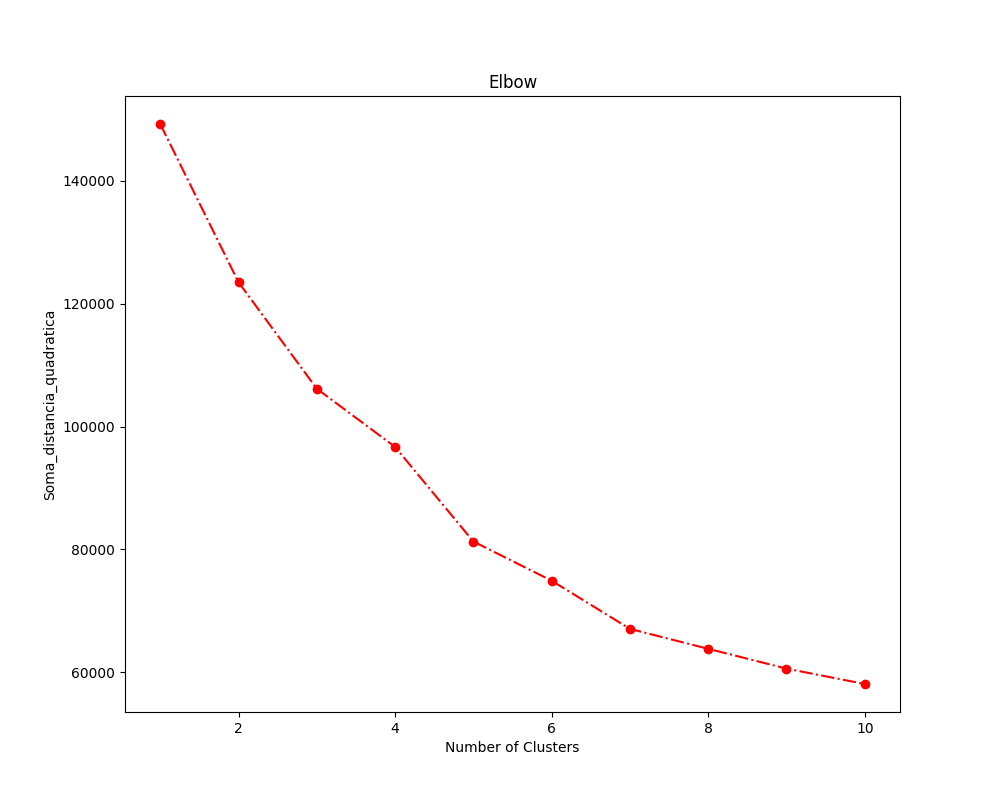
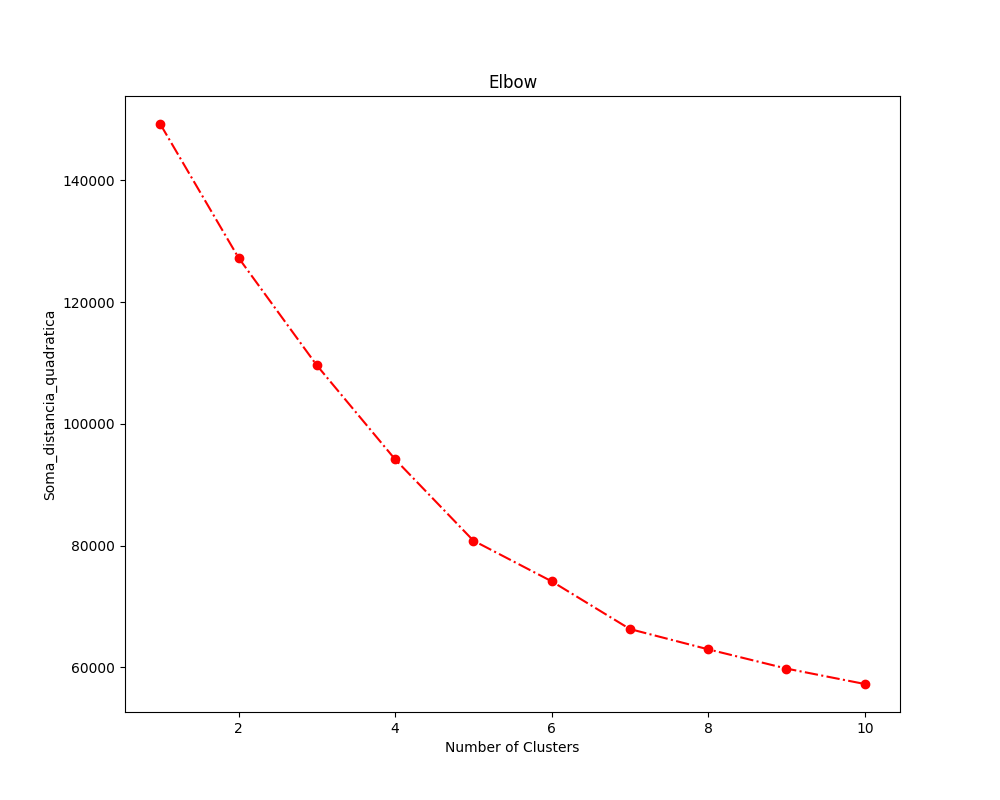
completo

diff --git a/templates/dashboard_um.html b/templates/dashboard_um.html
@@ -114,10 +114,31 @@
 
     <h1>K-means Clustering Results</h1>
     <img src="{{ url_for('static', filename='graficos/df_kmeans_pca_plot.png') }}" alt="K-means Clustering with PCA">
-
     <h1>Cluster Analysis Report</h1>
-    <div>
-        {{ cluster_analysis_report|safe }}
-    </div>
+
+    <table border="1">
+        <thead>
+            <tr>
+                <th>Class Name</th>
+                <th>Instance Count</th>
+                <th>Rule List</th>
+            </tr>
+        </thead>
+        <tbody>
+            {% for index, row in cluster_analysis_report.iterrows() %}
+            <tr>
+                <td>{{ row['class_name'] }}</td>
+                <td>{{ row['instance_count'] }}</td>
+                <td>{{ row['rule_list'] }}</td>
+            </tr>
+            {% endfor %}
+        </tbody>
+    </table>
+
+    <h1>K-means Scatterplot</h1>
+    <img src="{{ url_for('static', filename='graficos/df_kmeans_elbow.png') }}" alt="K-means Scatterplot with PCA">
+
+    <h1>K-means Elbow</h1>
+    <img src="{{ url_for('static', filename='graficos/df_kmeans_scatterplot.png') }}" alt="K-means Elbow with PCA">
 </body>
 </html>

diff --git a/templates/dashboard_tres.html b/templates/dashboard_tres.html
@@ -112,8 +112,30 @@
     <img src="{{ url_for('static', filename='graficos/df2_kmeans_pca_plot.png') }}" alt="K-means Clustering with PCA">
 
     <h1>Cluster Analysis Report</h1>
-    <div>
-        {{ cluster_analysis_report|safe }}
-    </div>
+
+    <table border="1">
+        <thead>
+            <tr>
+                <th>Class Name</th>
+                <th>Instance Count</th>
+                <th>Rule List</th>
+            </tr>
+        </thead>
+        <tbody>
+            {% for index, row in cluster_analysis_report2.iterrows() %}
+            <tr>
+                <td>{{ row['class_name'] }}</td>
+                <td>{{ row['instance_count'] }}</td>
+                <td>{{ row['rule_list'] }}</td>
+            </tr>
+            {% endfor %}
+        </tbody>
+    </table>
+
+    <h1>K-means Scatterplot</h1>
+    <img src="{{ url_for('static', filename='graficos/df2_kmeans_elbow.png') }}" alt="K-means Scatterplot with PCA">
+
+    <h1>K-means Elbow</h1>
+    <img src="{{ url_for('static', filename='graficos/df2_kmeans_scatterplot.png') }}" alt="K-means Elbow with PCA">
 </body>
 </html>

diff --git a/templates/dashboard_dois.html b/templates/dashboard_dois.html
@@ -109,8 +109,30 @@
     <img src="{{ url_for('static', filename='graficos/df1_kmeans_pca_plot.png') }}" alt="K-means Clustering with PCA">
 
     <h1>Cluster Analysis Report</h1>
-    <div>
-        {{ cluster_analysis_report|safe }}
-    </div>
+
+    <table border="1">
+        <thead>
+            <tr>
+                <th>Class Name</th>
+                <th>Instance Count</th>
+                <th>Rule List</th>
+            </tr>
+        </thead>
+        <tbody>
+            {% for index, row in cluster_analysis_report1.iterrows() %}
+            <tr>
+                <td>{{ row['class_name'] }}</td>
+                <td>{{ row['instance_count'] }}</td>
+                <td>{{ row['rule_list'] }}</td>
+            </tr>
+            {% endfor %}
+        </tbody>
+    </table>
+
+    <h1>K-means Scatterplot</h1>
+    <img src="{{ url_for('static', filename='graficos/df_kmeans_elbow.png') }}" alt="K-means Scatterplot with PCA">
+
+    <h1>K-means Elbow</h1>
+    <img src="{{ url_for('static', filename='graficos/df_kmeans_scatterplot.png') }}" alt="K-means Elbow with PCA">
 </body>
 </html>

diff --git a/analise.py b/analise.py
@@ -29,6 +29,9 @@ import numpy as np
 from sklearn.metrics import silhouette_samples, silhouette_score
 from sklearn.tree import _tree, DecisionTreeClassifier
 from IPython.display import HTML, display
+from sklearn.tree import export_text
+from flask import send_file
+from sklearn.pipeline import Pipeline
 mpl.rcParams['figure.max_open_warning'] = 50
 
 analise = Flask(__name__)
@@ -641,59 +644,45 @@ def perform_and_plot_kmeans(dataframe, nome_prefixo, n_clusters):
     plt.savefig(f'{graficos_dir}/{nome_prefixo}_kmeans_pca_plot_{n_clusters}.png')
     plt.close()
 
-def execute_cluster_analysis(data, clusters, min_samples_leaf=50, pruning_level=0.01):
-    """
-    This function performs clustering analysis and displays rules for each cluster
-    using a decision tree classifier.
+def pretty_print(df):
+    return display( HTML( df.to_html().replace("\\n","<br>") ) )
 
-    Parameters:
-    - data: pandas DataFrame containing the dataset.
-    - clusters: Array-like of cluster labels corresponding to each row in data.
-    - min_samples_leaf: The minimum number of samples required to be at a leaf node.
-    - pruning_level: Complexity parameter used for Minimal Cost-Complexity Pruning.
-    """
+def get_class_rules(tree: DecisionTreeClassifier, feature_names: list):
+  inner_tree: _tree.Tree = tree.tree_
+  classes = tree.classes_
+  class_rules_dict = dict()
 
-    def pretty_print(df):
-        """
-        Display a DataFrame in HTML format.
-        """
-        return display(HTML(df.to_html().replace("\\n", "<br>")))
+  def tree_dfs(node_id=0, current_rule=[]):
+    # feature[i] holds the feature to split on, for the internal node i.
+    split_feature = inner_tree.feature[node_id]
+    if split_feature != _tree.TREE_UNDEFINED: # internal node
+      name = feature_names[split_feature]
+      threshold = inner_tree.threshold[node_id]
+      # left child
+      left_rule = current_rule + ["({} <= {})".format(name, threshold)]
+      tree_dfs(inner_tree.children_left[node_id], left_rule)
+      # right child
+      right_rule = current_rule + ["({} > {})".format(name, threshold)]
+      tree_dfs(inner_tree.children_right[node_id], right_rule)
+    else: # leaf
+      dist = inner_tree.value[node_id][0]
+      dist = dist/dist.sum()
+      max_idx = dist.argmax()
+      if len(current_rule) == 0:
+        rule_string = "ALL"
+      else:
+        rule_string = " and ".join(current_rule)
+      # register new rule to dictionary
+      selected_class = classes[max_idx]
+      class_probability = dist[max_idx]
+      class_rules = class_rules_dict.get(selected_class, [])
+      class_rules.append((rule_string, class_probability))
+      class_rules_dict[selected_class] = class_rules
 
-    def get_class_rules(tree, feature_names):
-        """
-        Extract classification rules from the decision tree.
-        """
-        inner_tree = tree.tree_
-        classes = tree.classes_
-        class_rules_dict = dict()
+  tree_dfs() # start from root, node_id = 0
+  return class_rules_dict
 
-        def tree_dfs(node_id=0, current_rule=[]):
-            # feature[i] holds the feature to split on, for the internal node i.
-            split_feature = inner_tree.feature[node_id]
-            if split_feature != _tree.TREE_UNDEFINED:  # internal node
-                name = feature_names[split_feature]
-                threshold = inner_tree.threshold[node_id]
-                # left child
-                left_rule = current_rule + ["({} <= {})".format(name, threshold)]
-                tree_dfs(inner_tree.children_left[node_id], left_rule)
-                # right child
-                right_rule = current_rule + ["({} > {})".format(name, threshold)]
-                tree_dfs(inner_tree.children_right[node_id], right_rule)
-            else:  # leaf
-                dist = inner_tree.value[node_id][0]
-                dist = dist / dist.sum()
-                max_idx = dist.argmax()
-                rule_string = " and ".join(current_rule) if current_rule else "ALL"
-                # register new rule to dictionary
-                selected_class = classes[max_idx]
-                class_probability = dist[max_idx]
-                class_rules = class_rules_dict.get(selected_class, [])
-                class_rules.append((rule_string, class_probability))
-                class_rules_dict[selected_class] = class_rules
-
-        tree_dfs()  # start from root, node_id = 0
-        return class_rules_dict
-
+def cluster_report(data: pd.DataFrame, clusters, min_samples_leaf=50, pruning_level=0.01):
     # Create Model
     tree = DecisionTreeClassifier(min_samples_leaf=min_samples_leaf, ccp_alpha=pruning_level)
     tree.fit(data, clusters)
@@ -703,8 +692,11 @@ def execute_cluster_analysis(data, clusters, min_samples_leaf=50, pruning_level=
     class_rule_dict = get_class_rules(tree, feature_names)
 
     report_class_list = []
-    for class_name, rule_list in class_rule_dict.items():
-        combined_string = "\n\n".join(f"[{prob:.2f}] {rule}" for rule, prob in rule_list)
+    for class_name in class_rule_dict.keys():
+        rule_list = class_rule_dict[class_name]
+        combined_string = ""
+        for rule in rule_list:
+            combined_string += "[{}] {}\n\n".format(rule[1], rule[0])
         report_class_list.append((class_name, combined_string))
 
     cluster_instance_df = pd.Series(clusters).value_counts().reset_index()
@@ -712,6 +704,48 @@ def execute_cluster_analysis(data, clusters, min_samples_leaf=50, pruning_level=
     report_df = pd.DataFrame(report_class_list, columns=['class_name', 'rule_list'])
     report_df = pd.merge(cluster_instance_df, report_df, on='class_name', how='left')
     pretty_print(report_df.sort_values(by='class_name')[['class_name', 'instance_count', 'rule_list']])
+
+    return report_df.sort_values(by='class_name')[['class_name', 'instance_count', 'rule_list']]
+
+def kmeans_elbow_viz(data, nome_prefixo, n_clusters, **kwargs):
+    pipeline = Pipeline(steps=[
+        ('scaler', StandardScaler()),
+        ('dim_reduction', PCA(n_components=2, random_state=0))
+    ])
+    
+    pc = pipeline.fit_transform(data)
+    sum_of_squared_distance = []
+    n_cluster = range(1, n_clusters + 1)
+
+    for k in n_cluster:
+        kmean_model = KMeans(n_clusters, **kwargs)
+        kmean_model.fit(pc)
+        sum_of_squared_distance.append(kmean_model.inertia_)
+
+    plt.plot(n_cluster, sum_of_squared_distance, 'bx-')
+    plt.xlabel('k')
+    plt.ylabel('Sum of squared distances')
+    plt.title('Elbow method for optimal K')
+    plt.savefig(f'{graficos_dir}/{nome_prefixo}_kmeans_elbow.png')
+    plt.close()  # Fechando a figura para evitar a exibição indesejada no HTML
+
+def kmeans_scatterplot(data, nome_prefixo, n_clusters,**kwargs):
+    pipeline = Pipeline(steps=[
+        ('scaler', StandardScaler()),
+        ('dim_reduction', PCA(n_components=2, random_state=0))
+    ])
+    
+    pc = pipeline.fit_transform(data)
+    kmeans_model = KMeans(n_clusters, **kwargs)
+    y_cluster = kmeans_model.fit_predict(pc)
+
+    fig, ax = plt.subplots(figsize=(8, 6))
+    sns.scatterplot(x=pc[:,0], y=pc[:,1], hue=y_cluster, palette='bright', ax=ax)
+    ax.set(xlabel="PC1", ylabel="PC2", title="KMeans Clustering - Dataset")
+    ax.legend(title='Cluster')
+    
+    plt.savefig(f'{graficos_dir}/{nome_prefixo}_kmeans_scatterplot.png')  
+    plt.close()  
                 
 @analise.route('/')
 def index():
@@ -724,30 +758,36 @@ def gerar_graficos():
     df1 = get_dataframe1(sql_comando1)
     df2 = get_dataframe2(sql_comando2)
     
-    # gerar_e_salvar_graficos(df, campos, 'df')
-    # gerar_e_salvar_graficos(df1, campos1, 'df1')
-    # gerar_e_salvar_graficos(df2, campos2, 'df2')
-    # gerar_e_salvar_graficos3(df, campos, 'df')
-    # gerar_e_salvar_graficos4(df1, campos1, 'df1')
-    # gerar_e_salvar_graficos5(df2, campos2, 'df2')
-    # gerar_e_salvar_graficos_pairplot(df, campos, 'df')
-    # gerar_e_salvar_graficos_pairplot(df1, campos1, 'df1')
-    # gerar_e_salvar_graficos_pairplot(df2, campos2, 'df2')
-    # gerar_e_salvar_graficos_pairplot_numerical_values(df, campos, 'df')
-    # gerar_e_salvar_graficos_pairplot_numerical_values(df1, campos1, 'df1')
-    # gerar_e_salvar_graficos_pairplot_numerical_values(df2, campos2, 'df2')
-    # gerar_e_salvar_graficos_scatterplot(df, campos, 'df')        
-    # gerar_e_salvar_graficos_scatterplot(df1, campos1, 'df1')
-    # gerar_e_salvar_graficos_scatterplot(df2, campos2, 'df2')
-    # gerar_e_salvar_graficos_heatmap(df, 'df')       
-    # gerar_e_salvar_graficos_heatmap(df1, 'df1')
-    # gerar_e_salvar_graficos_heatmap(df2, 'df2')
-    # perform_clustering_and_generate_graphs(df, range(2, 11), 'df')
-    # perform_clustering_and_generate_graphs(df1, range(2, 11), 'df1')
-    # perform_clustering_and_generate_graphs(df2, range(2, 11), 'df2')
+    gerar_e_salvar_graficos(df, campos, 'df')
+    gerar_e_salvar_graficos(df1, campos1, 'df1')
+    gerar_e_salvar_graficos(df2, campos2, 'df2')
+    gerar_e_salvar_graficos3(df, campos, 'df')
+    gerar_e_salvar_graficos4(df1, campos1, 'df1')
+    gerar_e_salvar_graficos5(df2, campos2, 'df2')
+    gerar_e_salvar_graficos_pairplot(df, campos, 'df')
+    gerar_e_salvar_graficos_pairplot(df1, campos1, 'df1')
+    gerar_e_salvar_graficos_pairplot(df2, campos2, 'df2')
+    gerar_e_salvar_graficos_pairplot_numerical_values(df, campos, 'df')
+    gerar_e_salvar_graficos_pairplot_numerical_values(df1, campos1, 'df1')
+    gerar_e_salvar_graficos_pairplot_numerical_values(df2, campos2, 'df2')
+    gerar_e_salvar_graficos_scatterplot(df, campos, 'df')        
+    gerar_e_salvar_graficos_scatterplot(df1, campos1, 'df1')
+    gerar_e_salvar_graficos_scatterplot(df2, campos2, 'df2')
+    gerar_e_salvar_graficos_heatmap(df, 'df')       
+    gerar_e_salvar_graficos_heatmap(df1, 'df1')
+    gerar_e_salvar_graficos_heatmap(df2, 'df2')
+    perform_clustering_and_generate_graphs(df, range(2, 11), 'df')
+    perform_clustering_and_generate_graphs(df1, range(2, 11), 'df1')
+    perform_clustering_and_generate_graphs(df2, range(2, 11), 'df2')
     perform_and_plot_kmeans(df, 'df', 6)
     perform_and_plot_kmeans(df1,  'df1', 5)
     perform_and_plot_kmeans(df2, 'df2', 3)
+    kmeans_elbow_viz(df, 'df', 6)
+    kmeans_elbow_viz(df1,  'df1', 5)
+    kmeans_elbow_viz(df2, 'df2', 3)
+    kmeans_scatterplot(df, 'df', 6)
+    kmeans_scatterplot(df1,  'df1', 5)
+    kmeans_scatterplot(df2, 'df2', 3)
     
     return "Gráficos gerados e salvos com sucesso!"
 
@@ -838,7 +878,11 @@ def dashboard_um():
     caminhos_graficos10 = [f'graficos/df_heatmap.png']
     caminhos_graficos11 = [f'graficos/df_pairplot_numerical.png']
     caminhos_graficos16 = [f'graficos/df_cotovelo.png']
-    cluster_analysis_report = execute_cluster_analysis(df, 6)
+
+    # Perform clustering using KMeans
+    kmeans = KMeans(n_clusters=6, random_state=42)
+    cluster_labels = kmeans.fit_predict(df)
+    cluster_analysis_report = cluster_report(df, cluster_labels, min_samples_leaf=50, pruning_level=0.01)
 
     return render_template('dashboard_um.html', dados_texto=dados_texto,  caminhos_graficos=caminhos_graficos, caminhos_graficos1=caminhos_graficos1, caminhos_graficos4=caminhos_graficos4, caminhos_graficos7=caminhos_graficos7 , caminhos_graficos10=caminhos_graficos10,
                            caminhos_graficos11=caminhos_graficos11, caminhos_graficos16=caminhos_graficos16, silhouette_scores=silhouette_scores, cluster_analysis_report=cluster_analysis_report)
@@ -925,7 +969,10 @@ def dashboard_dois():
     caminhos_graficos12 = [f'graficos/df1_heatmap.png']
     caminhos_graficos13 = [f'graficos/df1_pairplot_numerical.png']
     caminhos_graficos17 = [f'graficos/df1_cotovelo.png']
-    cluster_analysis_report1 = execute_cluster_analysis(df1, 5)
+    
+    kmeans = KMeans(n_clusters=5, random_state=42)
+    cluster_labels = kmeans.fit_predict(df1)
+    cluster_analysis_report1 = cluster_report(df1, cluster_labels, min_samples_leaf=50, pruning_level=0.01)
 
     return render_template('dashboard_dois.html', dados_texto=dados_texto,  caminhos_graficos=caminhos_graficos, caminhos_graficos2=caminhos_graficos2, caminhos_graficos5=caminhos_graficos5, caminhos_graficos8=caminhos_graficos8, caminhos_graficos12=caminhos_graficos12,
                            caminhos_graficos13=caminhos_graficos13, caminhos_graficos17=caminhos_graficos17, silhouette_scores=silhouette_scores,  cluster_analysis_report1=cluster_analysis_report1)
@@ -1011,7 +1058,10 @@ def dashboard_tres():
     caminhos_graficos14 = [f'graficos/df2_heatmap.png']
     caminhos_graficos15 = [f'graficos/df2_pairplot_numerical.png']
     caminhos_graficos18 = [f'graficos/df2_cotovelo.png']
-    cluster_analysis_report2 = execute_cluster_analysis(df2, 3)
+   
+    kmeans = KMeans(n_clusters=3, random_state=42)
+    cluster_labels = kmeans.fit_predict(df2)
+    cluster_analysis_report2 = cluster_report(df2, cluster_labels, min_samples_leaf=50, pruning_level=0.01)
 
     return render_template('dashboard_tres.html', dados_texto=dados_texto,  caminhos_graficos=caminhos_graficos, caminhos_graficos3=caminhos_graficos3, caminhos_graficos6=caminhos_graficos6, caminhos_graficos9=caminhos_graficos9, caminhos_graficos14=caminhos_graficos14,
                            caminhos_graficos15=caminhos_graficos15,  caminhos_graficos18=caminhos_graficos18, silhouette_scores=silhouette_scores, cluster_analysis_report2=cluster_analysis_report2)
